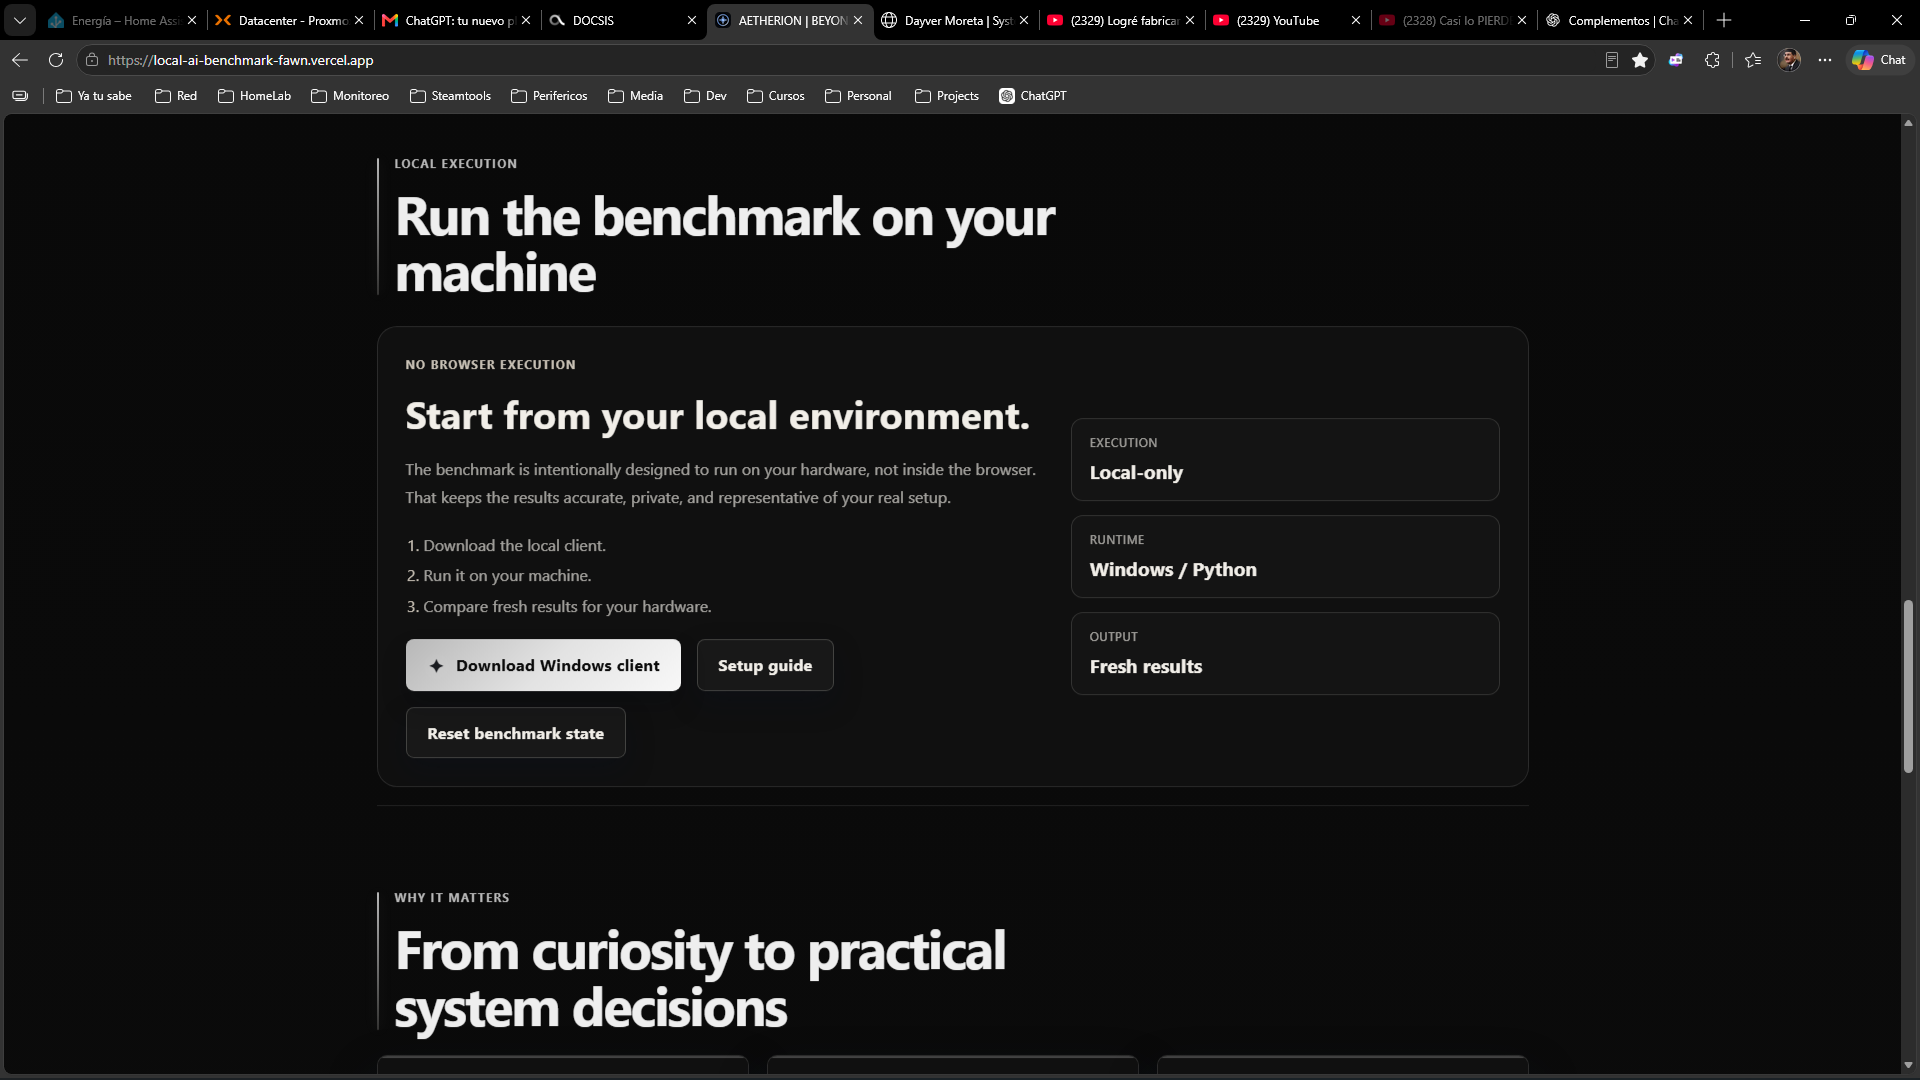
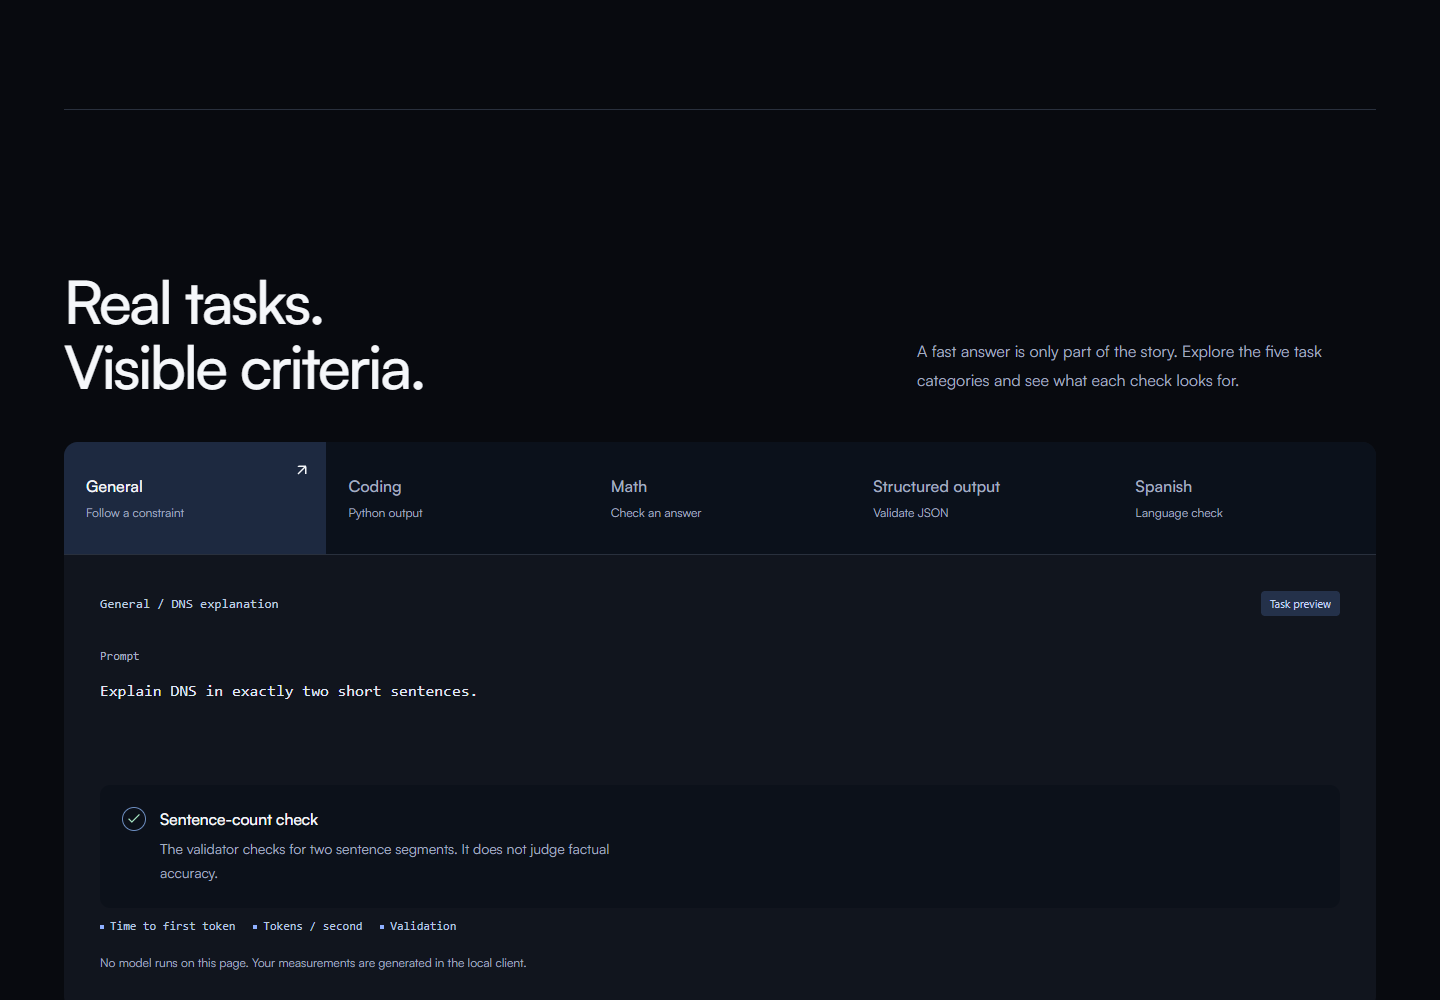
Update Aetherion web showcase and refine portfolio

diff --git a/index.html b/index.html
@@ -12,7 +12,7 @@
     <link rel="preconnect" href="https://cdnjs.cloudflare.com">
     <link rel="stylesheet" href="style.css">
     <link rel="stylesheet" href="visual.css">
-    <link rel="stylesheet" href="monochrome.css">
+    <link rel="stylesheet" href="monochrome.css?v=20261004-refine">
     <link rel="stylesheet" href="motion.css">
     <link rel="stylesheet" href="https://cdnjs.cloudflare.com/ajax/libs/font-awesome/6.4.0/css/all.min.css">
     <link href="https://fonts.googleapis.com/css2?family=Inter:wght@300;400;600;800&family=JetBrains+Mono:wght@400;700&display=swap" rel="stylesheet">
@@ -66,8 +66,8 @@
             <div class="showcase-heading reveal"><div><p class="hero-eyebrow" data-es="PROYECTOS EN FUNCIONAMIENTO" data-en="PROJECTS IN PRACTICE">PROYECTOS EN FUNCIONAMIENTO</p><h2 data-es="De la infraestructura a la experiencia." data-en="From infrastructure to experience.">De la infraestructura<br>a la experiencia.</h2></div><p data-es="Una mirada a los sistemas que configuro y gestiono en mi homelab. Capturas de mis implementaciones reales." data-en="A look at the systems I configure and manage in my homelab. Screenshots from my real implementations.">Una mirada a los sistemas que configuro y gestiono en mi homelab. Capturas de mis implementaciones reales.</p></div>
             <div class="visual-project-grid">
                 <article class="visual-project aetherion-project reveal">
-                    <button class="project-cover" type="button" data-gallery="aetherion" data-slide="0" aria-label="Abrir galería de Aetherion"><img src="assets/projects/aetherion-overview.png" width="1920" height="1080" alt="Página de Aetherion, herramienta de benchmarking de modelos locales" loading="lazy"><span class="cover-topline"><span>AETHERION / BEYOND THE KNOWN.</span><span class="capture-badge" data-es="PROYECTO DESTACADO" data-en="FEATURED PROJECT">PROYECTO DESTACADO</span></span><span class="cover-action"><span data-es="Ver el proyecto por dentro" data-en="Explore the project">Ver el proyecto por dentro</span><span aria-hidden="true">↗</span></span></button>
-                    <div class="visual-project-copy"><div class="visual-project-heading"><span class="project-number">01 / LOCAL INTELLIGENCE</span><span class="project-count" data-es="14 vistas del proyecto" data-en="14 project views">14 vistas del proyecto</span></div><h3>Aetherion<span class="project-title-dot">.</span></h3><span class="project-activity"><span aria-hidden="true"></span><span data-es="En desarrollo" data-en="In development">En desarrollo</span></span><p class="aetherion-lead" data-es="La inteligencia local, puesta a prueba." data-en="Local intelligence, put to the test.">La inteligencia local, puesta a prueba.</p><p data-es="Una plataforma para explorar modelos locales, ejecutar benchmarks y analizar velocidad, latencia y validación. Aetherion Studio conecta la identidad de la web con una experiencia nativa de escritorio, desde el hardware hasta el historial de resultados." data-en="A platform to explore local models, run benchmarks and analyze speed, latency and validation. Aetherion Studio connects the website identity with a native desktop experience, from hardware to results history.">Una plataforma para explorar modelos locales, ejecutar benchmarks y analizar velocidad, latencia y validación. Aetherion Studio conecta la identidad de la web con una experiencia nativa de escritorio, desde el hardware hasta el historial de resultados.</p><div class="catalog-tags"><span>Python</span><span>Ollama</span><span>GGUF</span><span>Qt 6 / PySide6</span><span>Desktop UI/UX</span></div><div class="project-view-strip"><button type="button" data-gallery="aetherion" data-slide="0" data-es="Portada" data-en="Overview">Portada</button><button type="button" data-gallery="aetherion" data-slide="1">Hardware</button><button type="button" data-gallery="aetherion" data-slide="2" data-es="Cliente" data-en="Client">Cliente</button><button type="button" data-gallery="aetherion" data-slide="3">Intro</button></div><a class="project-live-link" href="https://local-ai-benchmark-fawn.vercel.app/" target="_blank" rel="noopener noreferrer"><span data-es="Visitar Aetherion" data-en="Visit Aetherion">Visitar Aetherion</span> ↗</a></div>
+                    <button class="project-cover" type="button" data-gallery="aetherion" data-slide="0" aria-label="Abrir galería de Aetherion"><img src="assets/projects/aetherion-overview.png" width="1440" height="1000" alt="Página de Aetherion, herramienta de benchmarking de modelos locales" loading="lazy"><span class="cover-topline"><span>AETHERION / BEYOND THE KNOWN.</span><span class="capture-badge" data-es="PROYECTO DESTACADO" data-en="FEATURED PROJECT">PROYECTO DESTACADO</span></span><span class="cover-action"><span data-es="Ver el proyecto por dentro" data-en="Explore the project">Ver el proyecto por dentro</span><span aria-hidden="true">↗</span></span></button>
+                    <div class="visual-project-copy"><div class="visual-project-heading"><span class="project-number">01 / LOCAL INTELLIGENCE</span><span class="project-count" data-es="15 vistas del proyecto" data-en="15 project views">15 vistas del proyecto</span></div><h3>Aetherion<span class="project-title-dot">.</span></h3><span class="project-activity"><span aria-hidden="true"></span><span data-es="En desarrollo" data-en="In development">En desarrollo</span></span><p class="aetherion-lead" data-es="La inteligencia local, puesta a prueba." data-en="Local intelligence, put to the test.">La inteligencia local, puesta a prueba.</p><p data-es="Una plataforma para explorar modelos locales, ejecutar benchmarks y analizar velocidad, latencia y validación. Aetherion Studio conecta la identidad de la web con una experiencia nativa de escritorio, desde el hardware hasta el historial de resultados." data-en="A platform to explore local models, run benchmarks and analyze speed, latency and validation. Aetherion Studio connects the website identity with a native desktop experience, from hardware to results history.">Una plataforma para explorar modelos locales, ejecutar benchmarks y analizar velocidad, latencia y validación. Aetherion Studio conecta la identidad de la web con una experiencia nativa de escritorio, desde el hardware hasta el historial de resultados.</p><div class="catalog-tags"><span>Python</span><span>Ollama</span><span>GGUF</span><span>Qt 6 / PySide6</span><span>Desktop UI/UX</span></div><div class="web-refinement-summary"><p data-es="Web refinada con Satoshi, galería del cliente y animaciones GSAP. Navegación por teclado, movimiento reducido y descarga del cliente Qt 6 de 52,6 MB." data-en="Website refined with Satoshi, a client gallery and GSAP motion. Keyboard navigation, reduced motion and the 52.6 MB Qt 6 client download.">Web refinada con Satoshi, galería del cliente y animaciones GSAP. Navegación por teclado, movimiento reducido y descarga del cliente Qt 6 de 52,6 MB.</p><span data-es="WEB VERIFICADA · 375–1920 PX" data-en="VERIFIED WEB · 375–1920 PX">WEB VERIFICADA · 375–1920 PX</span></div><div class="project-view-strip"><button type="button" data-gallery="aetherion" data-slide="0" data-es="Portada" data-en="Overview">Portada</button><button type="button" data-gallery="aetherion" data-slide="1" data-es="Flujo" data-en="Workflow">Flujo</button><button type="button" data-gallery="aetherion" data-slide="2">Benchmarks</button><button type="button" data-gallery="aetherion" data-slide="3" data-es="Descarga" data-en="Download">Descarga</button><button type="button" data-gallery="aetherion" data-slide="14" data-es="Web móvil" data-en="Mobile web">Web móvil</button></div><a class="project-live-link" href="https://local-ai-benchmark-fawn.vercel.app/" target="_blank" rel="noopener noreferrer"><span data-es="Visitar Aetherion" data-en="Visit Aetherion">Visitar Aetherion</span> ↗</a></div>
 
                     <section class="studio-case" aria-labelledby="studio-case-title">
                         <div class="studio-case-heading"><div><span class="studio-eyebrow">AETHERION STUDIO / DESKTOP EXPERIENCE</span><h4 id="studio-case-title" data-es="La misma identidad. Una nueva experiencia." data-en="The same identity. A new experience.">La misma identidad. Una nueva experiencia.</h4></div><span class="studio-release" data-es="REDISEÑO · OCT 2026" data-en="REDESIGN · OCT 2026">REDISEÑO · OCT 2026</span></div>
@@ -398,9 +398,9 @@
 
     <footer class="portfolio-footer"><span>DAYVER MORETA / SYSTEMS & LOCAL AI</span><a href="https://www.linkedin.com/in/dayver-moreta-501771419/" target="_blank" rel="noopener noreferrer" data-es="Hablemos de tu próximo proyecto ↗" data-en="Let’s talk about your next project ↗">Hablemos de tu próximo proyecto ↗</a></footer>
 
-    <dialog class="project-lightbox" aria-labelledby="gallery-title"><div class="lightbox-shell"><div class="lightbox-header"><div><span id="gallery-kicker"></span><h2 id="gallery-title"></h2></div><button type="button" class="gallery-close" aria-label="Cerrar galería">✕</button></div><div class="lightbox-image-wrap"><img id="gallery-image" src="assets/projects/homarr.png" alt=""></div><div class="lightbox-footer"><button type="button" class="gallery-prev" aria-label="Imagen anterior">←</button><p id="gallery-caption" aria-live="polite"></p><button type="button" class="gallery-next" aria-label="Imagen siguiente">→</button></div></div></dialog>
+    <dialog class="project-lightbox" aria-labelledby="gallery-title"><div class="lightbox-shell"><div class="lightbox-header"><div><span id="gallery-kicker"></span><h2 id="gallery-title"></h2></div><button type="button" class="gallery-close" aria-label="Cerrar galería">✕</button></div><div class="lightbox-image-wrap" aria-busy="false"><img id="gallery-image" src="assets/projects/homarr.png" alt=""><p id="gallery-status" class="gallery-status" role="status" aria-live="polite"></p></div><div class="lightbox-footer"><button type="button" class="gallery-prev" aria-label="Imagen anterior">←</button><p id="gallery-caption" aria-live="polite"></p><button type="button" class="gallery-next" aria-label="Imagen siguiente">→</button></div></div></dialog>
 
-    <script src="showcase.js"></script>
+    <script src="showcase.js?v=20261004-refine"></script>
     <script src="portfolio-visual.js"></script>
 <script src="ecosystem.js"></script>
     <script src="script.js"></script>

diff --git a/showcase.js b/showcase.js
@@ -1,9 +1,9 @@
 const projectGalleries = {
   aetherion: { title: 'Aetherion', images: [
-    { file: 'aetherion-overview', es: 'Portada y presentación del proyecto', en: 'Project overview and presentation' },
-    { file: 'aetherion-hardware', es: 'Perfil de hardware y explicación de resultados', en: 'Hardware profile and results explanation' },
-    { file: 'aetherion-client', es: 'Ejecución local y descarga del cliente', en: 'Local execution and client download' },
-    { file: 'aetherion-intro', es: 'Identidad y secuencia de introducción', en: 'Identity and introduction sequence' },
+    { file: 'aetherion-overview', es: 'Portada refinada: Satoshi y galería del cliente Qt 6', en: 'Refined homepage: Satoshi and the Qt 6 client gallery' },
+    { file: 'aetherion-hardware', es: 'Recorrido del hardware al informe, con movimiento reducido disponible', en: 'Workflow from hardware to report, with reduced-motion support' },
+    { file: 'aetherion-client', es: 'Cinco categorías de tareas y criterios de validación', en: 'Five task categories and validation criteria' },
+    { file: 'aetherion-web-download', es: 'Descarga actualizada del cliente Qt 6, requisitos y FAQ', en: 'Updated Qt 6 client download, requirements and FAQ' },
     { file: 'aetherion-studio-workspace', studio: true, fixture: false, es: 'Workspace con hardware real y seis modelos locales', en: 'Workspace with real hardware and six local models' },
     { file: 'aetherion-studio-models', studio: true, fixture: true, es: 'Biblioteca, filtros y compatibilidad estimada', en: 'Library, filters and estimated compatibility' },
     { file: 'aetherion-studio-benchmark', studio: true, fixture: true, es: 'Configuración, ajustes avanzados y ejecución', en: 'Configuration, advanced settings and execution' },
@@ -13,7 +13,8 @@ const projectGalleries = {
     { file: 'aetherion-studio-settings', studio: true, fixture: true, es: 'Preferencias, almacenamiento, runtime y cuenta', en: 'Preferences, storage, runtime and account' },
     { file: 'aetherion-studio-login', studio: true, fixture: true, es: 'Acceso al cliente y sesión local', en: 'Client sign-in and local session' },
     { file: 'aetherion-studio-register', studio: true, fixture: true, es: 'Registro y configuración de la cuenta', en: 'Registration and account setup' },
-    { file: 'aetherion-studio-download', studio: true, fixture: true, es: 'Exploración y descarga de modelos GGUF', en: 'GGUF model exploration and download' }
+    { file: 'aetherion-studio-download', studio: true, fixture: true, es: 'Exploración y descarga de modelos GGUF', en: 'GGUF model exploration and download' },
+    { file: 'aetherion-web-mobile', es: 'Portada responsive en una ventana de 390 × 844 px', en: 'Responsive homepage in a 390 × 844 px viewport' }
   ] },
   homarr: { title: 'Homarr', images: [{ file: 'homarr', es: 'Dashboard para gestionar servicios y stacks', en: 'Dashboard for managing services and stacks' }] },
   jellyfin: { title: 'Jellyfin', images: [
@@ -38,6 +39,9 @@ function renderGallery() {
     ? (spanish ? 'CLIENTE IMPLEMENTADO / DATOS DE DEMOSTRACIÓN' : 'IMPLEMENTED CLIENT / DEMONSTRATION DATA')
     : (spanish ? 'PROYECTO / CAPTURAS REALES' : 'PROJECT / REAL SCREENSHOTS');
   const image = document.getElementById('gallery-image');
+  const status = document.getElementById('gallery-status');
+  image.parentElement.setAttribute('aria-busy', 'true');
+  if (status) status.textContent = spanish ? 'Cargando captura…' : 'Loading screenshot…';
   image.src = `assets/projects/${shot.file}.png`;
   image.alt = caption;
   document.getElementById('gallery-caption').textContent = `${galleryIndex + 1} / ${gallery.images.length} — ${caption}`;
@@ -47,6 +51,18 @@ function renderGallery() {
   galleryDialog.querySelector('.gallery-next').setAttribute('aria-label', spanish ? 'Imagen siguiente' : 'Next image');
   galleryDialog.querySelector('.gallery-close').setAttribute('aria-label', spanish ? 'Cerrar galería' : 'Close gallery');
 }
+const galleryImage = document.getElementById('gallery-image');
+galleryImage.addEventListener('load', () => {
+  galleryImage.parentElement.setAttribute('aria-busy', 'false');
+  document.getElementById('gallery-status').textContent = '';
+});
+galleryImage.addEventListener('error', () => {
+  galleryImage.parentElement.setAttribute('aria-busy', 'false');
+  document.getElementById('gallery-status').textContent = document.documentElement.lang === 'es'
+    ? 'No se pudo cargar esta captura. Elige otra vista.'
+    : 'This screenshot could not load. Choose another view.';
+});
+
 document.querySelectorAll('[data-gallery]').forEach(button => button.addEventListener('click', () => {
   galleryKey = button.dataset.gallery;
   galleryIndex = Number(button.dataset.slide || 0);

diff --git a/monochrome.css b/monochrome.css
@@ -53,3 +53,43 @@ body::before { background:linear-gradient(#ffffff03 1px,transparent 1px),linear-
 @media(max-width:900px) { .studio-case { padding:30px; }.studio-case-heading { flex-direction:column; gap:14px; }.studio-release { padding:0; }.studio-proof { gap:16px; } }
 @media(max-width:650px) { .studio-case { padding:25px; }.studio-capture-grid { grid-template-columns:1fr 1fr; }.studio-capture-main { grid-column:1 / -1; grid-row:auto; }.studio-proof { grid-template-columns:1fr; gap:18px; }.studio-capture>span { padding:10px; }.studio-capture strong { font-size:10px; }.studio-capture small { font-size:9px; } }
 @media(prefers-reduced-motion:reduce) { .studio-capture { transition:none; } }
+
+/* Small portfolio polish: legibility, controlled captures, keyboard and touch. */
+:root { --text-muted:#a8a8a8; }
+html { scroll-padding-top:110px; }
+::selection { background:#ddd; color:#080808; }
+body { scrollbar-color:#555 #080808; scrollbar-width:thin; }
+body::before { background:none; }
+.architecture-hero h1 { letter-spacing:-.04em; }
+.showcase-section::before { display:none; }
+.showcase-heading>p,.visual-project-copy>p { font-size:14px; line-height:1.8; color:#aaa; }
+.aetherion-project .project-cover { display:flex; align-items:center; justify-content:center; background:#080a0f; min-height:440px; }
+.aetherion-project .project-cover img { width:100%; height:auto; object-fit:contain; filter:none; }
+.aetherion-project .project-cover::after { background:linear-gradient(#0007,transparent 18%,transparent 82%,#0009); }
+.project-view-strip button { min-height:44px; padding:10px 13px; font-size:12px; }
+.project-count,.project-number { font-size:11px; }
+.catalog-tags span { font-size:11px; }
+.web-refinement-summary { margin-top:22px; padding-top:18px; border-top:1px solid #ffffff15; }
+.web-refinement-summary p { margin:0; color:#aaa; font-size:13px; line-height:1.8; }
+.web-refinement-summary>span { display:block; margin-top:12px; color:#bbb; font:11px 'JetBrains Mono',monospace; letter-spacing:.4px; }
+.studio-eyebrow,.studio-release,.studio-proof dt { font-size:11px; }
+.studio-intro { font-size:14px; }
+.studio-note { color:#aaa; font-size:12px; }
+.studio-proof dd { font-size:13px; }
+.studio-capture-main img { margin-block:0; }
+.studio-capture-main { justify-content:space-between; background:#080a0f; }
+.studio-capture strong { font-size:12px; }
+.studio-capture small { font-size:11px; color:#aaa; }
+.project-lightbox { scrollbar-width:thin; scrollbar-color:#555 #0c0c0c; }
+.lightbox-header span { font-size:11px; line-height:1.6; }
+.lightbox-footer p { font-size:13px; line-height:1.6; }
+.gallery-close,.gallery-next,.gallery-prev { min-width:44px; min-height:44px; }
+.lightbox-image-wrap { position:relative; min-height:160px; }
+.lightbox-image-wrap[aria-busy=true] img { opacity:.4; }
+.gallery-status { position:absolute; left:16px; right:16px; bottom:12px; margin:0; padding:8px 12px; background:#111e; color:#ddd; border-radius:6px; font-size:13px; line-height:1.6; text-align:center; }
+.gallery-status:empty { display:none; }
+a:focus-visible,button:focus-visible { outline:2px solid #c4d2f9; outline-offset:4px; }
+@media(hover:hover) and (pointer:fine) { .studio-capture:hover img { filter:brightness(1.05); }.project-view-strip button:active { transform:scale(.97); } }
+@media(max-width:800px) { .aetherion-project .project-cover { min-height:0; height:auto; aspect-ratio:1440/1000; } }
+@media(max-width:500px) { .architecture-hero h1 { letter-spacing:-.04em; }.studio-capture-grid { grid-template-columns:1fr; }.studio-capture-main { grid-column:auto; }.studio-capture strong { font-size:12px; }.studio-capture small { font-size:11px; }.studio-case { padding:24px; }.lightbox-footer p { font-size:12px; }.lightbox-header span { font-size:10px; }.project-lightbox { border-radius:12px; } }
+@media(prefers-reduced-motion:reduce) { .project-view-strip button:active { transform:none; } }

diff --git a/docs/aetherion-web-refinement.md b/docs/aetherion-web-refinement.md
@@ -1,0 +1,9 @@
+# Aetherion web and portfolio refinement
+
+Updated 2026-10-04, America/La_Paz. Four web captures now reflect the implemented current homepage, workflow, five-category benchmark explorer and Qt 6 download. An additional 390×844 mobile capture brings the gallery to 15 views, alongside ten native-client captures. Earlier native fixture labels remain intact. The previous intro image is retained in assets as archival material, but removed from the active gallery because that sequence is no longer part of the current homepage.
+
+Project copy records self-hosted Satoshi, GSAP, keyboard and reduced-motion support, 375–1920 px layout checks, and the 52.6 MB Windows download. This is verified local implementation, not a claim that the public deployment was updated.
+
+Portfolio polish keeps the monochrome identity: readable supporting text, restrained tracking, full screenshot proportions, 44 px gallery controls, clearer mobile capture layouts, focus indicators and explicit image loading/error feedback. No executable or account credentials were copied into the portfolio.
+
+Verification: all 15 gallery captures loaded; loading state clears; Spanish/English, arrow keys and focus restoration pass. Desktop 1440×1000 and mobile 390×844 have no horizontal overflow. node --check and git diff --check pass; no browser errors reported. Capture consent was dismissed in the isolated source browser before taking final screenshots.
